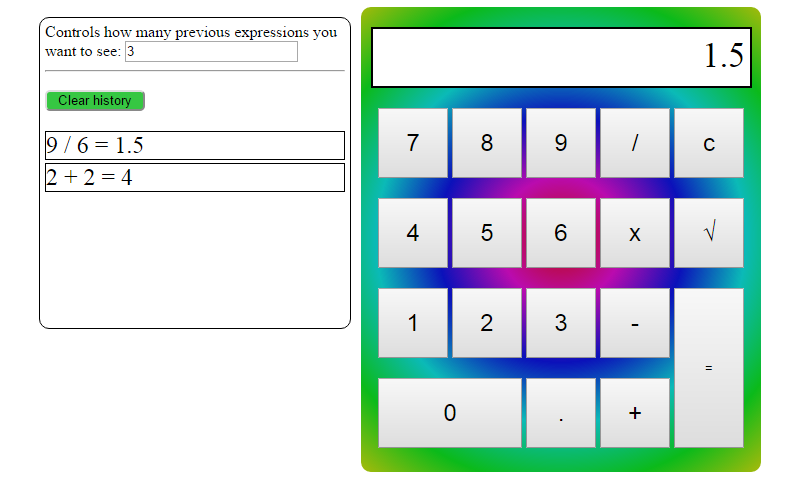
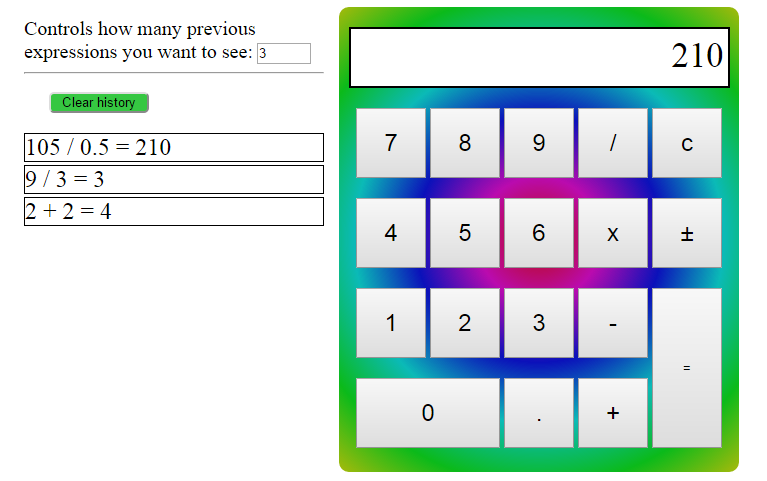
finished mvp features

Changed region(s): [[0.03, 0.0, 0.9896, 0.9979], [0.5398, 0.842, 0.5698, 0.8732]]

diff --git a/app/templates/projects.html b/app/templates/projects.html
@@ -19,7 +19,7 @@
 			<a target="_blank" ng-href="{{url.plotGenApp}}" ng-click="openPlotGeneratorApp()"><div class="projectApp"><img src="images/plotGenPic.PNG" /></div></a>
 			<div class="projectDescription">
 				<p ng-show="languageChoice.isEnglish">An AngularJS application that takes words you input and generates a random plot in various genres.</p>
-				<p ng-show="languageChoice.isJapanese">単語を入れてランダムな話が読めるAngularJSでつられたアプリ</p>
+				<p ng-show="languageChoice.isJapanese">単語を入れてランダムな話が読めるAngularJSで作られたアプリ</p>
 			</div>
 			<a target="_blank" ng-href="{{url.plotGenCode}}" ng-click="openPlotGeneratorCode()"><div class="projectCode"><span ng-show="languageChoice.isEnglish">See code in GitHub</span><span ng-show="languageChoice.isJapanese">GitHubでコードを閲覧</span></div></a>
 		</div>
@@ -44,10 +44,8 @@
 
 		<div class="projectBoxLeft">
 			<div class="projectTitle">
-				<!-- <h2 ng-show="languageChoice.isEnglish">Calculator</h2> -->
-				<!-- <h2 ng-show="languageChoice.isJapanese">電卓</h2> -->
-				<h2 ng-show="languageChoice.isEnglish">Coming soon</h2>
-				<h2 ng-show="languageChoice.isJapanese">Coming soon</h2>
+				<h2 ng-show="languageChoice.isEnglish">Calculator</h2>
+				<h2 ng-show="languageChoice.isJapanese">電卓</h2>
 			</div>
 			<a target="_blank" ng-href="{{url.calculatorApp}}" ng-click="openCalculatorApp()"><div class="projectApp"><img src="images/calculatorPic.PNG" /></div></a>
 			<div class="projectDescription">

diff --git a/app/scripts/app.js b/app/scripts/app.js
@@ -97,11 +97,11 @@ function mainController($scope, AddUp) {
     }
 
     $scope.openCalculatorApp = function() {
-        // $scope.url.calculatorApp = 'http://billhorst.github.io/Calculator/index.html';
+        $scope.url.calculatorApp = 'http://billhorst.github.io/Calculator/index.html';
     }
 
     $scope.openCalculatorCode = function() {
-        // $scope.url.calculatorCode = 'https://github.com/billhorst/Calculator';
+        $scope.url.calculatorCode = 'https://github.com/billhorst/Calculator';
     }
 
 
